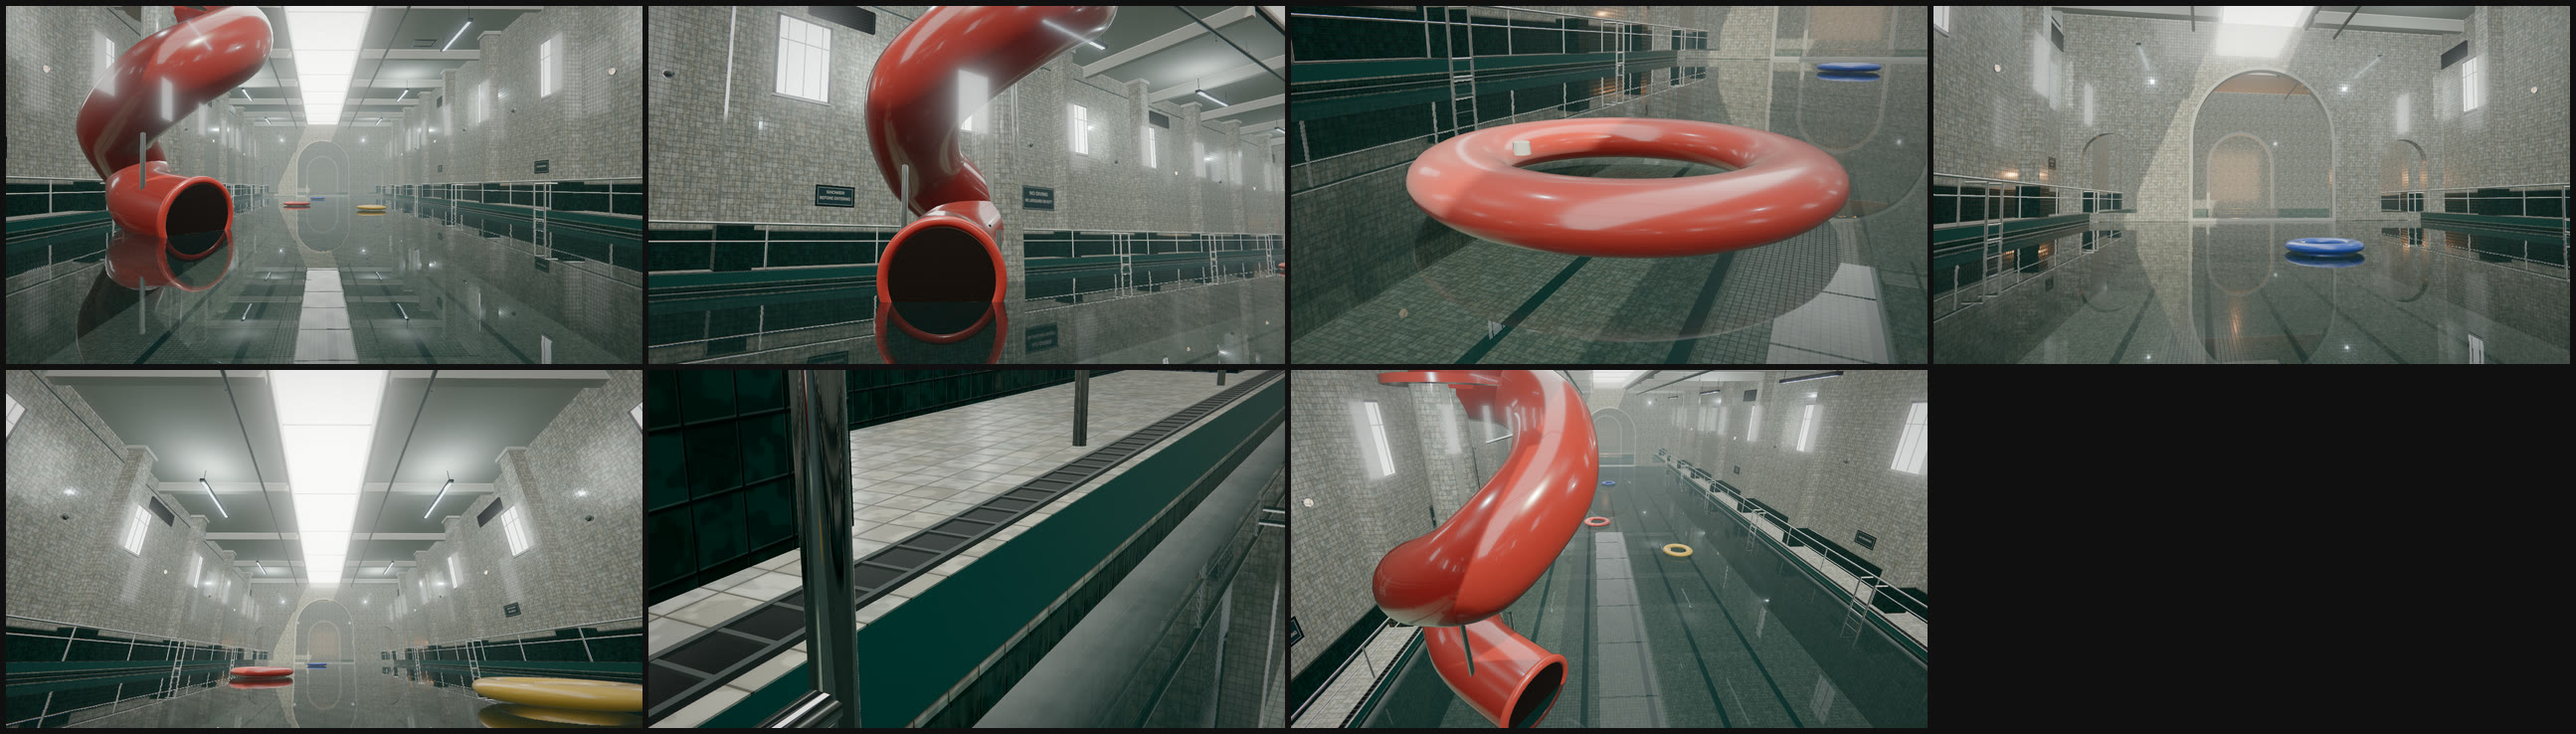
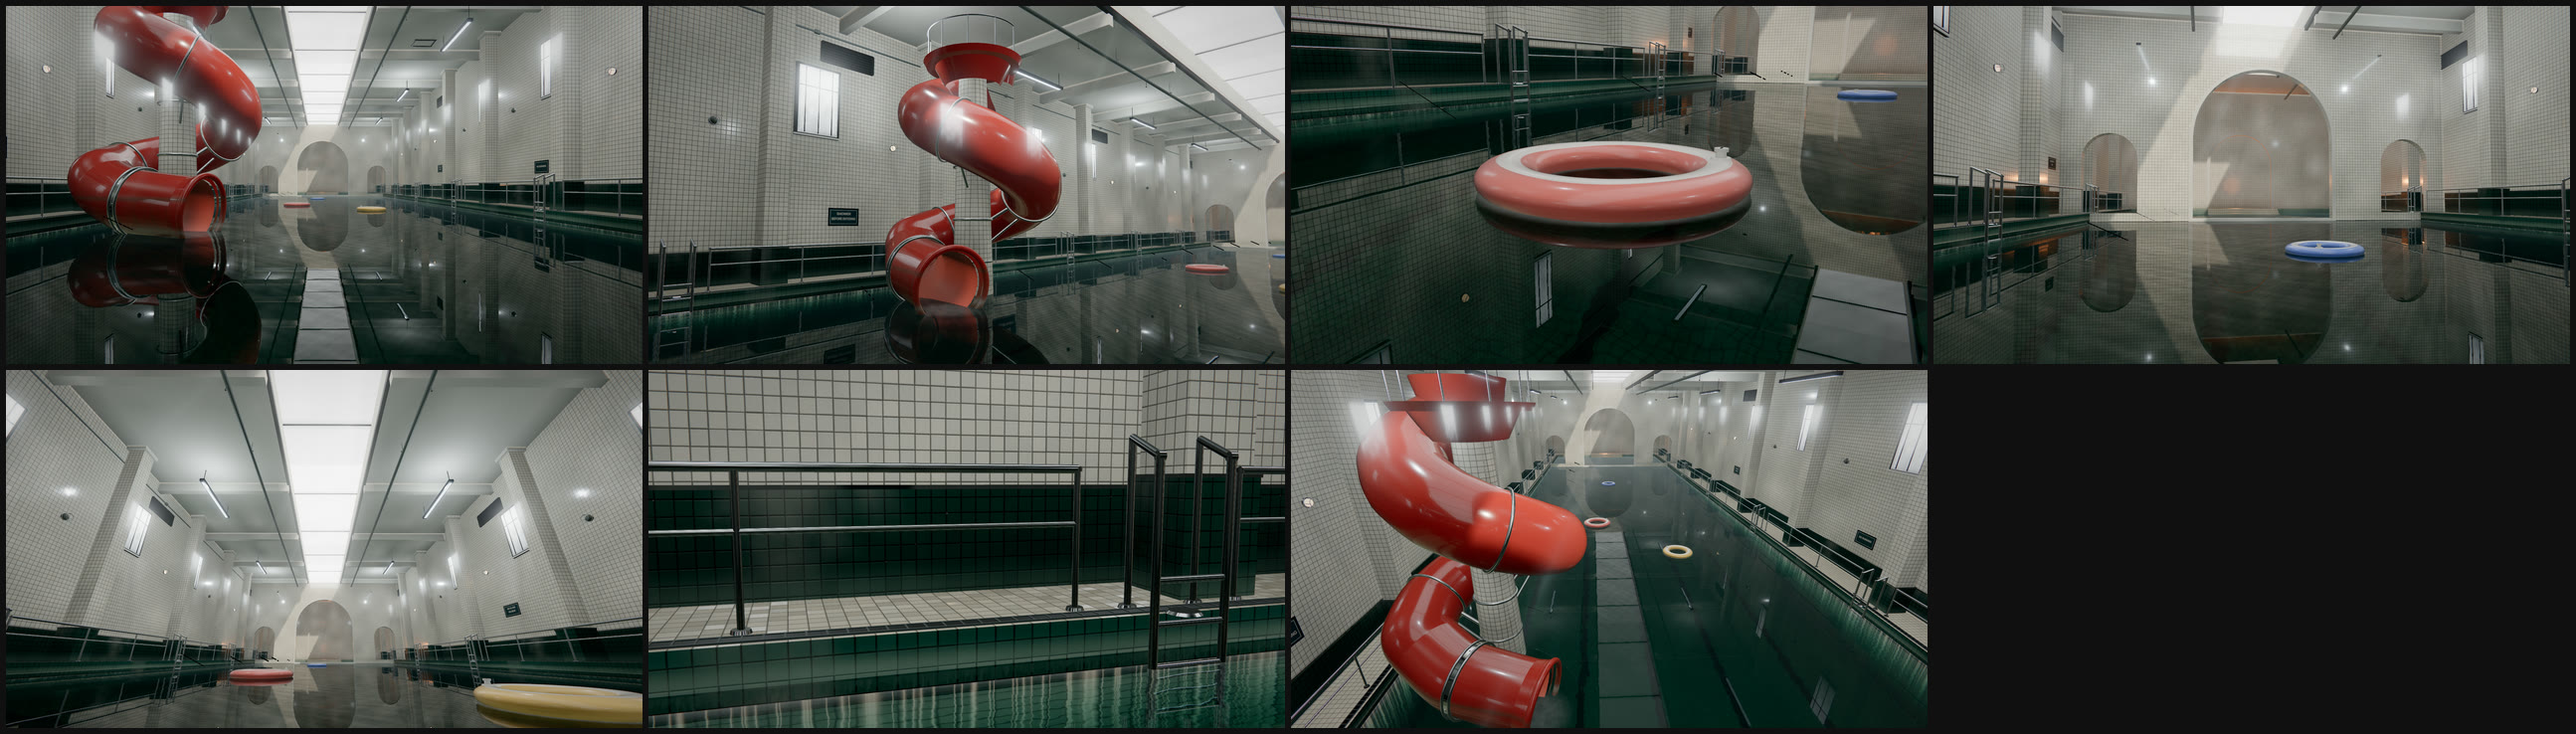
camera: reframe Skin/Flume/Ring for the art-direction correction
Owner goal revision 1 found three of the seven compositions mis-framed. The
other four (arrival poster, arch, ascension, float) are unchanged; these three
are rebuilt around the props + room-detail anchors and the new water look:

- Skin: the old frame showed deck, gutter and rail; every right-wall anchor
  projected outside NDC. New camera is a 3/4 wall study, 3.8 m out and aimed
  at the wall band: white glazed wall tile + grout fill the top half, the dark
  wainscot band runs through the middle, and the basin waterline band + coping +
  dark water sit in the bottom third. Verified against 30 right-wall anchors and
  the basin waterline anchor; the deck is a narrow strip, not the subject.
- The Flume: the old frame cropped the crown/platform (platform y=+1.03 NDC,
  crown +1.16, outside). New camera pulls back to (-3.8,1.9,-23.2), fov 46, so
  the whole hero structure reads: mouth, tower base, boarding platform and the
  funnel crown all inside the frame, with the half-drowned mouth and its
  reflection in the lower third.
- Still Water: pulled back and lowered to (0.4,0.68,-5.6), fov 40, so the whole
  red ring (all 16 outer-rim samples, plus the printed band and valve) sits
  inside the central frame with water, reflection and tile visible; no
  edge-stretch.
- Tests now assert the owner anchors directly: full flume crown/platform/tower,
  wall-tile + wainscot + basin-waterline fractions, and all rim samples inside
[…]

diff --git a/tests/camera.test.ts b/tests/camera.test.ts
@@ -89,14 +89,14 @@ describe('guided camera path', () => {
     expect(path.sample(CINEMATIC_DURATION).position[0]).toBeCloseTo(start.position[0], 5);
   });
 
-  it('moves slowly: peak translation speed below 2.6 m/s', () => {
+  it('moves slowly: peak translation speed below 2.0 m/s', () => {
     const dt = CINEMATIC_DURATION / SAMPLES;
     let peak = 0;
     for (let index = 0; index <= SAMPLES; index++) {
       const velocity = path.velocity(index * dt);
       peak = Math.max(peak, Math.hypot(velocity[0], velocity[1], velocity[2]));
     }
-    expect(peak).toBeLessThan(2.6);
+    expect(peak).toBeLessThan(2.0);
     expect(peak).toBeGreaterThan(0.5);
   });
 
@@ -252,7 +252,7 @@ describe('shot compositions', () => {
     expect(nearWater.v).toBeGreaterThan(0.5);
   });
 
-  it('aims the flume shot toward the hollow mouth anchor', () => {
+  it('frames the whole flume hero structure, hollow mouth included', () => {
     const flume = getShot('flume')!;
     const mouth = LAYOUT.slide.end;
     const distance = Math.hypot(
@@ -266,23 +266,90 @@ describe('shot compositions', () => {
       viewDirection({ position: flume.position, target: [mouth.x, mouth.y + 0.9, mouth.z] }),
     );
     expect(angle / DEG).toBeLessThan(25);
-    const projected = project(flume, [mouth.x, mouth.y, mouth.z]);
-    expect(projected.depth).toBeGreaterThan(0);
-    expect(projected.u).toBeGreaterThan(0.1);
-    expect(projected.u).toBeLessThan(0.9);
-    expect(projected.v).toBeGreaterThan(0.15);
-    expect(projected.v).toBeLessThan(0.95);
+
+    // The owner's framing review: the full hero structure must read — mouth,
+    // tower base, boarding platform and crown/funnel rim all inside the frame.
+    const anchors: Array<[string, [number, number, number]]> = [
+      ['mouth', [mouth.x, mouth.y, mouth.z]],
+      ['tower base', [LAYOUT.slide.tower.x, LAYOUT.hall.deck, LAYOUT.slide.tower.z]],
+      ['platform', [LAYOUT.slide.tower.x, LAYOUT.slide.platformY, LAYOUT.slide.tower.z]],
+      ['crown', [LAYOUT.slide.tower.x, LAYOUT.slide.topY, LAYOUT.slide.tower.z]],
+    ];
+    for (const [name, point] of anchors) {
+      const projected = project(flume, point);
+      expect(projected.depth, `${name} is behind the flume camera`).toBeGreaterThan(0);
+      expect(projected.u, `${name} u`).toBeGreaterThan(0.02);
+      expect(projected.u, `${name} u`).toBeLessThan(0.98);
+      expect(projected.v, `${name} v`).toBeGreaterThan(0.02);
+      expect(projected.v, `${name} v`).toBeLessThan(0.98);
+    }
   });
 
-  it('keeps the waterline crossing the skin shot', () => {
+  it('frames the skin shot on wall tile, grout and the basin waterline', () => {
     const skin = getShot('tile')!;
-    const waterline = project(skin, [LAYOUT.water.halfWidth, LAYOUT.water.surface, 4.2]);
+    const targetZ = skin.target[2];
+    // The glazed wall plane and the darker wainscot band must fill the frame.
+    let wallInside = 0;
+    let wallTotal = 0;
+    for (const y of [0.5, 0.7, 0.9, 1.1, 1.3, 1.45]) {
+      for (const dz of [-1.6, -0.8, 0, 0.8, 1.6]) {
+        wallTotal++;
+        const projected = project(skin, [LAYOUT.hall.halfWidth, y, targetZ + dz]);
+        if (
+          projected.depth > 0 &&
+          projected.u > 0 &&
+          projected.u < 1 &&
+          projected.v > 0 &&
+          projected.v < 1
+        ) {
+          wallInside++;
+        }
+      }
+    }
+    expect(wallInside / wallTotal).toBeGreaterThanOrEqual(2 / 3);
+    // White glazed tile above the wainscot (y > 1.21) must be visible too.
+    for (const dz of [-1.2, 0, 1.2]) {
+      const whiteTile = project(skin, [LAYOUT.hall.halfWidth, 1.4, targetZ + dz]);
+      expect(whiteTile.depth).toBeGreaterThan(0);
+      expect(whiteTile.u).toBeGreaterThan(0);
+      expect(whiteTile.u).toBeLessThan(1);
+      expect(whiteTile.v).toBeGreaterThan(0);
+      expect(whiteTile.v).toBeLessThan(1);
+    }
+    // The basin waterline (teal band / water surface against the right wall)
+    // must be in frame as well.
+    const waterline = project(skin, [LAYOUT.water.halfWidth, LAYOUT.water.surface, targetZ]);
     expect(waterline.depth).toBeGreaterThan(0);
-    expect(waterline.u).toBeGreaterThan(0.1);
-    expect(waterline.u).toBeLessThan(0.95);
+    expect(waterline.u).toBeGreaterThan(0);
+    expect(waterline.u).toBeLessThan(1);
     expect(waterline.v).toBeGreaterThan(0.1);
-    expect(waterline.v).toBeLessThan(0.95);
+    expect(waterline.v).toBeLessThan(1);
   });
+
+  it('keeps the whole floating ring inside the still-water frame', () => {
+    const ring = getShot('ring')!;
+    const red = LAYOUT.rings[1]!;
+    expect(red.id).toBe('red');
+    const outer = red.radius + red.tube;
+    for (let sample = 0; sample < 16; sample++) {
+      const angle = (sample / 16) * Math.PI * 2;
+      const point: [number, number, number] = [
+        red.position.x + Math.cos(angle) * outer,
+        red.position.y,
+        red.position.z + Math.sin(angle) * outer,
+      ];
+      const projected = project(ring, point);
+      expect(projected.depth, `rim sample ${sample} is behind the camera`).toBeGreaterThan(0);
+      expect(Math.abs(projected.u - 0.5), `rim sample ${sample} u`).toBeLessThan(0.5);
+      expect(Math.abs(projected.v - 0.5), `rim sample ${sample} v`).toBeLessThan(0.5);
+    }
+    const centre = project(ring, [red.position.x, red.position.y, red.position.z]);
+    expect(centre.u).toBeGreaterThan(0.3);
+    expect(centre.u).toBeLessThan(0.7);
+    expect(centre.v).toBeGreaterThan(0.2);
+    expect(centre.v).toBeLessThan(0.8);
+  });
+
 
   it('puts water in the bottom third of the ascension shot', () => {
     const skylight = getShot('skylight')!;

diff --git a/src/world/layout.ts b/src/world/layout.ts
@@ -132,9 +132,9 @@ export const SHOTS: readonly CameraShot[] = [
     id: 'flume',
     index: 2,
     label: 'The Flume',
-    position: [-2.4, 1.0, -20.2],
-    target: [4.2, 2.1, -15.2],
-    fov: 47,
+    position: [-3.8, 1.9, -23.2],
+    target: [4.4, 3.0, -14.9],
+    fov: 46,
   },
   {
     // Almost at the surface, close enough that the ring, its reflection and the
@@ -142,9 +142,9 @@ export const SHOTS: readonly CameraShot[] = [
     id: 'ring',
     index: 3,
     label: 'Still Water',
-    position: [1.05, 0.58, -4.9],
-    target: [1.8, 0.05, -3.05],
-    fov: 38,
+    position: [0.4, 0.68, -5.6],
+    target: [1.75, 0.0, -3.05],
+    fov: 40,
   },
   {
     // Off the centre line: the arch screen is seen in perspective, with the
@@ -172,9 +172,9 @@ export const SHOTS: readonly CameraShot[] = [
     id: 'tile',
     index: 6,
     label: 'Skin',
-    position: [6.55, 0.8, 2.6],
-    target: [7.4, 0.25, 4.2],
-    fov: 26,
+    position: [3.8, 1.25, 0.4],
+    target: [8.4, 0.7, 1.8],
+    fov: 34,
   },
   {
     // High over the near end: flume footprint on the left, rings receding, the
@@ -213,24 +213,24 @@ const shotKey = (id: string, time: number): CinematicKey => {
  * and the monotone tangents keep the camera from overshooting into the basin
  * walls or the flume.
  *
- * The spacing is paced against segment length (roughly 1.3–1.8 m/s chord speed)
- * so the take reads as one calm drift instead of fast transits between beats
- * (peak translation is 1.78 m/s, peak pan 13.3 deg/s). The arrival pose stays on
+ * The spacing is paced against segment length and against the large yaw swing
+ * into the wall-side Skin composition, so the take reads as one calm drift
+ * (peak translation 1.87 m/s, peak pan 14.2 deg/s). The arrival pose stays on
  * the loop point as a deliberate near-still beat.
  */
 export const CINEMATIC_KEYS: readonly CinematicKey[] = [
   shotKey('arrival', 0),
-  shotKey('flume', 6),
-  shotKey('ring', 16),
-  shotKey('arch', 21),
-  shotKey('tile', 25.5),
-  shotKey('skylight', 36.5),
-  shotKey('float', 46.5),
+  shotKey('flume', 5),
+  shotKey('ring', 18),
+  shotKey('arch', 24),
+  shotKey('tile', 32.5),
+  shotKey('skylight', 41),
+  shotKey('float', 49.5),
   {
-    time: 51,
-    position: [0.9, 2.8, -21.5],
-    target: [0.5, 1.4, -5.0],
-    fov: 55,
+    time: 53,
+    position: [0.8, 3.0, -23.2],
+    target: [0.5, 1.4, -6.0],
+    fov: 54,
   },
 ] as const;
 

diff --git a/docs/TECHNICAL.md b/docs/TECHNICAL.md
@@ -99,12 +99,15 @@ time; yaw/pitch orientation rather than an interpolated look-at point (so the
 wrap takes the short way round and a target cannot swing through the eye);
 monotone tangents at direction reversals to prevent overshoot into walls. The
 loop is C1-continuous in position and orientation; `tests/camera.test.ts`
-asserts the seam, the translation/pan rate caps, the flume clearance and that
-every composition pose is visited exactly. `CINEMATIC_DURATION` is 56 s; the
-composition beats are arrival 0 s, flume 6 s, ring 16 s, arch 21 s, tile 25.5 s,
-skylight 36.5 s, float 46.5 s, with one return key at 51 s. Segment times are
-paced against segment length so the whole take stays below 1.8 m/s peak
-translation and 13.3 deg/s peak pan (audit: `docs/evidence/camera-pacing.json`).
+asserts the seam, the translation/pan rate caps, the flume clearance, the
+owner-goal framing anchors (full flume crown/platform, wall tile + wainscot +
+basin waterline in Skin, whole red-ring rim in Still Water) and that every
+composition pose is visited exactly. `CINEMATIC_DURATION` is 56 s; the
+composition beats are arrival 0 s, flume 5 s, ring 18 s, arch 24 s, tile 32.5 s,
+skylight 41 s, float 49.5 s, with one return key at 53 s. Segment times are
+paced against segment length and the large yaw swing into the wall-side Skin
+composition, so the whole take stays below 1.87 m/s peak translation and
+14.2 deg/s peak pan (audit: `docs/evidence/camera-pacing.json`).
 The whole path is driven by the scene clock, so `renderAt(t)` stays deterministic.
 
 ## Water
